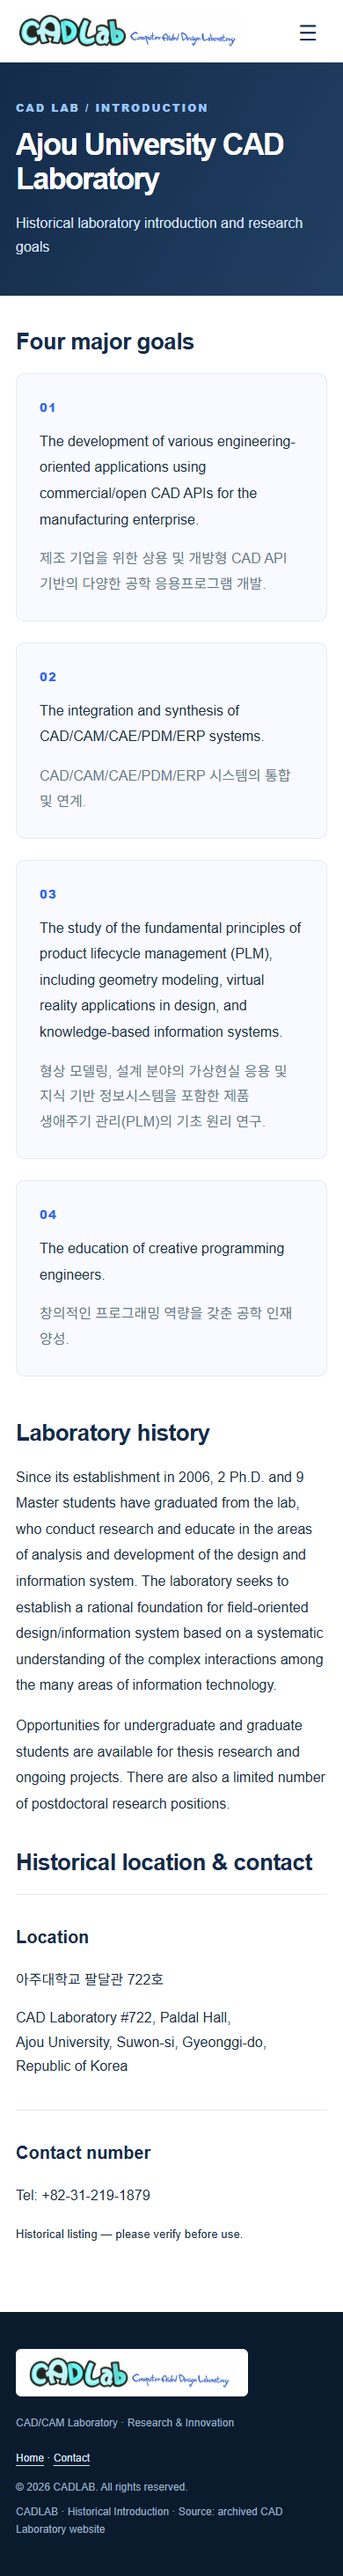
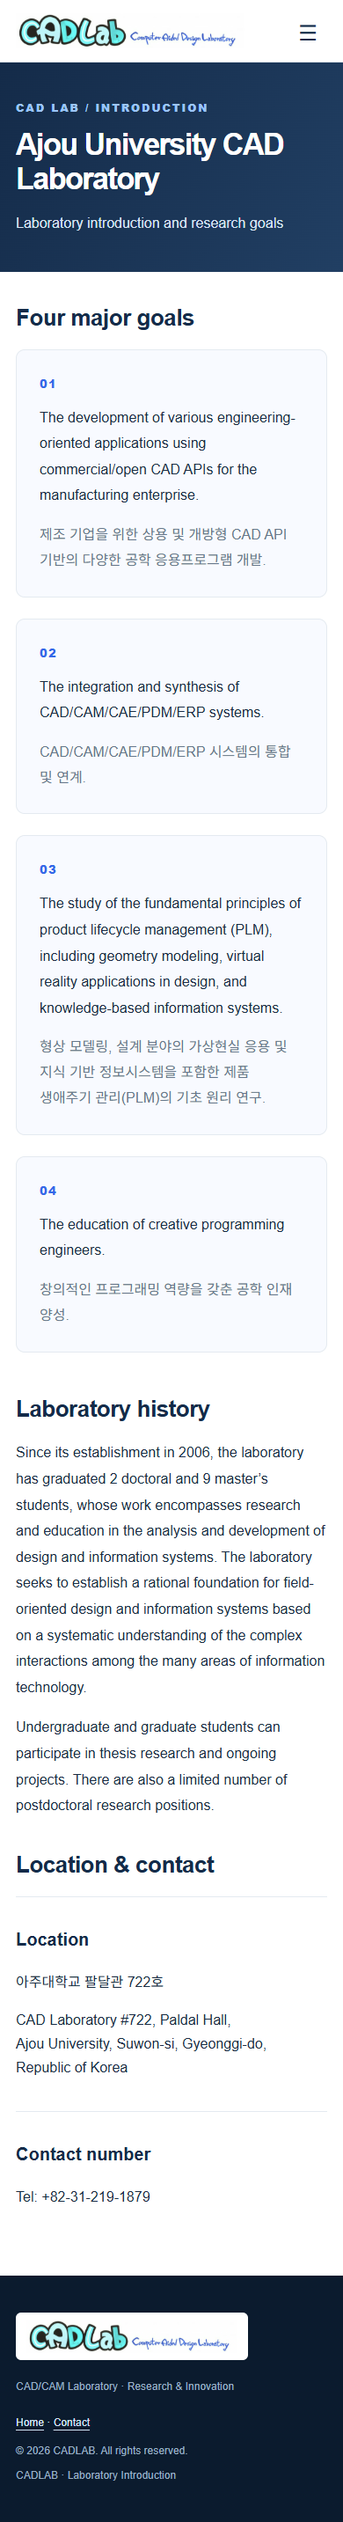
Polish public-facing copy, member badges and English grammar

diff --git a/publications/korean.html b/publications/korean.html
@@ -51,7 +51,7 @@
 
 
 
-<div class="overview"><h2>논문 목록 · Journal Publications</h2></div><section class="year-block"><h2 id="year-2024">2024</h2><ol start="1"><li class="paper"><div class="authors">오소향, 양정삼*</div><div class="paper-title">주조 공정에서 제어 로직과 온도 데이터를 활용한 CNN Autoencoder 기반 공정 이상 진단</div><div class="source">한국CDE학회 논문집, No. 3, pp. 267-279, 2024.09.</div></li><li class="paper"><div class="authors">조현곤, 정성주, 양정삼*</div><div class="paper-title">차량 서스펜션의 최적 설계에서 사양관리와 부품 공용화를 위한 CAD 템플릿 및 부품 라이브러리 구축</div><div class="source">한국CDE학회 논문집, Vol. 29, No. 1, pp. 72-83, 2024.03.</div></li></ol></section><section class="year-block"><h2 id="year-2023">2023</h2><ol start="3"><li class="paper"><div class="authors">유재홍, 양정삼</div><div class="paper-title">선박 CAD 모델과 VR 메쉬 모델 사이의 데이터 변환을 위한 B-Rep 형상 간략화</div><div class="source">한국CDE학회 논문집, 제28권, 제3호, pp. 260-272, 2023.</div></li></ol></section><section class="year-block"><h2 id="year-2022">2022</h2><ol start="4"><li class="paper"><div class="authors">나건열, 유재홍, 양정삼</div><div class="paper-title">이기종 CAD시스템에서 설계된 엘보우 파이프 모델의 통합을 위한 부분 토러스 재건</div><div class="source">한국CDE학회 논문집, 제27권, 제3호, pp. 350-360, 2022.</div></li></ol></section><section class="year-block"><h2 id="year-2021">2021</h2><ol start="5"><li class="paper"><div class="authors">나건열, 천상욱, 양정삼</div><div class="paper-title">조선 네스팅 문제의 부재 페어링을 위한 딥러닝 기반 부재 분류 방법</div><div class="source">한국CDE학회 논문집, 제26권, 제4호, pp. 514-524, 2021.</div></li><li class="paper"><div class="authors">양광빈, 양정삼</div><div class="paper-title">섬유 공장의 안전 교육훈련을 위한 ISM 기반 가상환경 시나리오 설계</div><div class="source">한국CDE학회 논문집, 제26권, 제3호, pp. 249-261, 2021.</div></li></ol></section><section class="year-block"><h2 id="year-2018">2018</h2><ol start="7"><li class="paper"><div class="authors">김철신, 이세희, 양정삼</div><div class="paper-title">X-Ray 기기의 설계변경에 따른 FDA 510(k) 인허가 영향 평가 모델 개발</div><div class="source">한국CDE학회 논문집, 제23권, 제4호, pp. 361-372, 2018.</div></li></ol></section><section class="year-block"><h2 id="year-2015">2015</h2><ol start="8"><li class="paper"><div class="authors">전혜성, 이진원, 양정삼</div><div class="paper-title">인체부위 인식을 통한 깊이 카메라 기반의 자전거 피팅 시스템 개발</div><div class="source">한국 CAD/CAM 학회 논문집, 제20권, 제4호, pp. 375-384, 2015.</div></li></ol></section><section class="year-block"><h2 id="year-2014">2014</h2><ol start="9"><li class="paper"><div class="authors">이진원, 한정호, 양정삼</div><div class="paper-title">실시간 휴먼 시뮬레이션을 위한 깊이 카메라 기반의 자세 판별 및 모션 보간</div><div class="source">한국 CAD/CAM 학회 논문집, 제19권, 제1호, pp. 68-79, 2014.</div></li></ol></section><section class="year-block"><h2 id="year-2012">2012</h2><ol start="10"><li class="paper"><div class="authors">이태목, 양정삼</div><div class="paper-title">중소기업의 정보화 도입사례 분석을 통한 효과적인 PLM 구축 방안에 대한 연구</div><div class="source">청촌논총, 제13집, pp. 65-92, 2012.</div></li><li class="paper"><div class="authors">송성열, 양정삼, 명태식</div><div class="paper-title">4D 시뮬레이션을 위한 공법 템플릿 기반의 건설 공정 자동 생성</div><div class="source">산업공학 IE Interfaces, 제25권, 제2호, pp. 216-228, 2012.</div></li></ol></section><section class="year-block"><h2 id="year-2011">2011</h2><ol start="12"><li class="paper"><div class="authors">유효선, 양정삼, 박재일</div><div class="paper-title">3D CAD 모델의 품질 측정을 위한 오류 발생 특징 별 시그마 수준 분석</div><div class="source">산업공학 IE Interfaces, 제24권, 제1호, pp. 58-70, 2011.</div></li></ol></section><section class="year-block"><h2 id="year-2010">2010</h2><ol start="13"><li class="paper"><div class="authors">오정수, 양정삼</div><div class="paper-title">제조업 분야에서 Product Data Management 기반의 BSC 성과평가 시스템 구축 사례 연구</div><div class="source">산업공학 IE Interfaces, 제23권, 제4호, pp. 275-285, 2010.</div></li><li class="paper"><div class="authors">송인호, 양정삼, 조현재, 최상수</div><div class="paper-title">연속해석 데이터의 상호운용성을 지원하는 CAE 미들웨어와 가시화 시스템의 개발</div><div class="source">한국 CAD/CAM 학회 논문집, 제15권, 제2호, pp. 85-93, 2010.</div></li></ol></section><section class="year-block"><h2 id="year-2009">2009</h2><ol start="15"><li class="paper"><div class="authors">문두환, 양정삼, 한순흥</div><div class="paper-title">사양 기반 플랜트 설계 시스템에서 생성된 원자력 플랜트 설계 데이터의 중립 모델로의 통합 변환</div><div class="source">한국 CAD/CAM 학회 논문집, 제14권, 제2호, pp. 96-104, 2009.</div></li></ol></section><section class="year-block"><h2 id="year-2008">2008</h2><ol start="16"><li class="paper"><div class="authors">송인호, 양정삼, 조현재, 최상수</div><div class="paper-title">가상현실 환경을 위한 해석데이터 변환 기술 개발</div><div class="source">한국 CAD/CAM 학회 논문집, 제13권, 제5호, pp. 334-341, 2008.</div></li><li class="paper"><div class="authors">박동석, 양정삼, 유기헌, 박범</div><div class="paper-title">주문 생산형 반도체 장비를 위한 E-BOM 복제 알고리즘의 구현</div><div class="source">한국 CAD/CAM 학회 논문집, 제13권, 제4호, pp. 273-285, 2008.</div></li><li class="paper"><div class="authors">양정삼, 한순흥, 문두환</div><div class="paper-title">서로 다른 PDM 시스템 간에 OpenPDM을 이용한 제품데이터의 교환</div><div class="source">한국 CAD/CAM 학회 논문집, 제13권, 제2호, pp. 89-97, 2008.</div></li><li class="paper"><div class="authors">허필원, 양정삼, 한순흥</div><div class="paper-title">다채널 디스플레이에서 X3D와 무선제어를 이용한 수중운동체 시뮬레이터</div><div class="source">한국 CAD/CAM 학회 논문집, 제13권, 제1호, pp. 45-57, 2008.</div></li></ol></section><section class="year-block"><h2 id="year-2006">2006</h2><ol start="20"><li class="paper"><div class="authors">양정삼, 한순흥, 천상욱</div><div class="paper-title">전문가시스템을 이용한 CAD 모델 수정 시스템</div><div class="source">대한기계학회논문집 A권, 제30권, 제3호, pp. 219-230, 2006.</div></li><li class="paper"><div class="authors">김용식, 양정삼, 한순흥</div><div class="paper-title">가상 공장 시뮬레이션을 위한 PC 클러스터 기반의 멀티채널 가시화 모듈의 설계와 구현</div><div class="source">대한기계학회논문집 A권, 제30권, 제3호, pp. 231-240, 2006.</div></li></ol></section><section class="year-block"><h2 id="year-2005">2005</h2><ol start="22"><li class="paper"><div class="authors">양정삼, 한순흥, 박상호, 장광섭</div><div class="paper-title">국내 자동차산업에서 제품데이터품질에 대한 현황 조사</div><div class="source">한국 CAD/CAM 학회 논문집, 제10권, 제4호, pp. 274-283, 2005.</div></li><li class="paper"><div class="authors">양정삼, 한순흥</div><div class="paper-title">설계이력 정보를 이용한 CAD 모델의 오류 수정</div><div class="source">한국 CAD/CAM 학회 논문집, 제10권, 제4호, pp. 262-273, 2005.</div></li><li class="paper"><div class="authors">양정삼, 한순흥, 강혜정, 김준기</div><div class="paper-title">자동차산업에서 제품데이터품질 향상을 위한 연구</div><div class="source">한국자동차공학회논문집, 제13권, 제1호, pp. 184-193, 2005.</div></li></ol></section><section class="year-block"><h2 id="year-2004">2004</h2><ol start="25"><li class="paper"><div class="authors">양정삼, 한순흥, 김병철, 박찬국</div><div class="paper-title">CAD 모델 교환을 위한 매크로 파라메트릭 정보의 XML 표현</div><div class="source">대한기계학회논문집 A권, 제27권, 제12호, pp. 2061-2071, 2004.</div></li><li class="paper"><div class="authors">박상호, 박종욱, 한순흥, 최영, 양정삼</div><div class="paper-title">IGES CAD 데이터의 교환에서 오류 진단 시스템</div><div class="source">한국정밀공학회논문집, 제20권, 제10호, pp. 218-225, 2004.</div></li></ol></section><section class="year-block"><h2 id="year-2003">2003</h2><ol start="27"><li class="paper"><div class="authors">양정삼, Michael Goltz, 한순흥</div><div class="paper-title">파라미터 네트워크 기반의 워크플로를 적용한 제품의 설계 변경</div><div class="source">대한산업공학회논문집, 제29권, 제2호, pp. 157-164, 2003.</div></li></ol></section><section class="year-block"><h2 id="year-2002">2002</h2><ol start="28"><li class="paper"><div class="authors">양정삼, 한순흥</div><div class="paper-title">STEP AP214 자동차 설계 데이터 정리 시스템</div><div class="source">한국CAD/CAM학회 논문집, 제7권, 제3호, pp. 170-176, 2002.</div></li><li class="paper"><div class="authors">양정삼, 한순흥, 최영, 박상호</div><div class="paper-title">OpenCASCADE를 이용한 CAD 모델의 오류 진단 시스템의 개발</div><div class="source">한국자동차공학회논문집, 제10권, 제3호, pp. 151-158, 2002.</div></li></ol></section><p class="note">Records reproduced from laboratory-provided historical materials, with two 2024 additions. Record contents confirmed by the laboratory on 2 November 2026. * indicates corresponding author as supplied.</p></main><!-- shared-footer:start -->
+<div class="overview"><h2>논문 목록 · Journal Publications</h2></div><section class="year-block"><h2 id="year-2024">2024</h2><ol start="1"><li class="paper"><div class="authors">오소향, 양정삼*</div><div class="paper-title">주조 공정에서 제어 로직과 온도 데이터를 활용한 CNN Autoencoder 기반 공정 이상 진단</div><div class="source">한국CDE학회 논문집, No. 3, pp. 267-279, 2024.09.</div></li><li class="paper"><div class="authors">조현곤, 정성주, 양정삼*</div><div class="paper-title">차량 서스펜션의 최적 설계에서 사양관리와 부품 공용화를 위한 CAD 템플릿 및 부품 라이브러리 구축</div><div class="source">한국CDE학회 논문집, Vol. 29, No. 1, pp. 72-83, 2024.03.</div></li></ol></section><section class="year-block"><h2 id="year-2023">2023</h2><ol start="3"><li class="paper"><div class="authors">유재홍, 양정삼</div><div class="paper-title">선박 CAD 모델과 VR 메쉬 모델 사이의 데이터 변환을 위한 B-Rep 형상 간략화</div><div class="source">한국CDE학회 논문집, 제28권, 제3호, pp. 260-272, 2023.</div></li></ol></section><section class="year-block"><h2 id="year-2022">2022</h2><ol start="4"><li class="paper"><div class="authors">나건열, 유재홍, 양정삼</div><div class="paper-title">이기종 CAD시스템에서 설계된 엘보우 파이프 모델의 통합을 위한 부분 토러스 재건</div><div class="source">한국CDE학회 논문집, 제27권, 제3호, pp. 350-360, 2022.</div></li></ol></section><section class="year-block"><h2 id="year-2021">2021</h2><ol start="5"><li class="paper"><div class="authors">나건열, 천상욱, 양정삼</div><div class="paper-title">조선 네스팅 문제의 부재 페어링을 위한 딥러닝 기반 부재 분류 방법</div><div class="source">한국CDE학회 논문집, 제26권, 제4호, pp. 514-524, 2021.</div></li><li class="paper"><div class="authors">양광빈, 양정삼</div><div class="paper-title">섬유 공장의 안전 교육훈련을 위한 ISM 기반 가상환경 시나리오 설계</div><div class="source">한국CDE학회 논문집, 제26권, 제3호, pp. 249-261, 2021.</div></li></ol></section><section class="year-block"><h2 id="year-2018">2018</h2><ol start="7"><li class="paper"><div class="authors">김철신, 이세희, 양정삼</div><div class="paper-title">X-Ray 기기의 설계변경에 따른 FDA 510(k) 인허가 영향 평가 모델 개발</div><div class="source">한국CDE학회 논문집, 제23권, 제4호, pp. 361-372, 2018.</div></li></ol></section><section class="year-block"><h2 id="year-2015">2015</h2><ol start="8"><li class="paper"><div class="authors">전혜성, 이진원, 양정삼</div><div class="paper-title">인체부위 인식을 통한 깊이 카메라 기반의 자전거 피팅 시스템 개발</div><div class="source">한국 CAD/CAM 학회 논문집, 제20권, 제4호, pp. 375-384, 2015.</div></li></ol></section><section class="year-block"><h2 id="year-2014">2014</h2><ol start="9"><li class="paper"><div class="authors">이진원, 한정호, 양정삼</div><div class="paper-title">실시간 휴먼 시뮬레이션을 위한 깊이 카메라 기반의 자세 판별 및 모션 보간</div><div class="source">한국 CAD/CAM 학회 논문집, 제19권, 제1호, pp. 68-79, 2014.</div></li></ol></section><section class="year-block"><h2 id="year-2012">2012</h2><ol start="10"><li class="paper"><div class="authors">이태목, 양정삼</div><div class="paper-title">중소기업의 정보화 도입사례 분석을 통한 효과적인 PLM 구축 방안에 대한 연구</div><div class="source">청촌논총, 제13집, pp. 65-92, 2012.</div></li><li class="paper"><div class="authors">송성열, 양정삼, 명태식</div><div class="paper-title">4D 시뮬레이션을 위한 공법 템플릿 기반의 건설 공정 자동 생성</div><div class="source">산업공학 IE Interfaces, 제25권, 제2호, pp. 216-228, 2012.</div></li></ol></section><section class="year-block"><h2 id="year-2011">2011</h2><ol start="12"><li class="paper"><div class="authors">유효선, 양정삼, 박재일</div><div class="paper-title">3D CAD 모델의 품질 측정을 위한 오류 발생 특징 별 시그마 수준 분석</div><div class="source">산업공학 IE Interfaces, 제24권, 제1호, pp. 58-70, 2011.</div></li></ol></section><section class="year-block"><h2 id="year-2010">2010</h2><ol start="13"><li class="paper"><div class="authors">오정수, 양정삼</div><div class="paper-title">제조업 분야에서 Product Data Management 기반의 BSC 성과평가 시스템 구축 사례 연구</div><div class="source">산업공학 IE Interfaces, 제23권, 제4호, pp. 275-285, 2010.</div></li><li class="paper"><div class="authors">송인호, 양정삼, 조현재, 최상수</div><div class="paper-title">연속해석 데이터의 상호운용성을 지원하는 CAE 미들웨어와 가시화 시스템의 개발</div><div class="source">한국 CAD/CAM 학회 논문집, 제15권, 제2호, pp. 85-93, 2010.</div></li></ol></section><section class="year-block"><h2 id="year-2009">2009</h2><ol start="15"><li class="paper"><div class="authors">문두환, 양정삼, 한순흥</div><div class="paper-title">사양 기반 플랜트 설계 시스템에서 생성된 원자력 플랜트 설계 데이터의 중립 모델로의 통합 변환</div><div class="source">한국 CAD/CAM 학회 논문집, 제14권, 제2호, pp. 96-104, 2009.</div></li></ol></section><section class="year-block"><h2 id="year-2008">2008</h2><ol start="16"><li class="paper"><div class="authors">송인호, 양정삼, 조현재, 최상수</div><div class="paper-title">가상현실 환경을 위한 해석데이터 변환 기술 개발</div><div class="source">한국 CAD/CAM 학회 논문집, 제13권, 제5호, pp. 334-341, 2008.</div></li><li class="paper"><div class="authors">박동석, 양정삼, 유기헌, 박범</div><div class="paper-title">주문 생산형 반도체 장비를 위한 E-BOM 복제 알고리즘의 구현</div><div class="source">한국 CAD/CAM 학회 논문집, 제13권, 제4호, pp. 273-285, 2008.</div></li><li class="paper"><div class="authors">양정삼, 한순흥, 문두환</div><div class="paper-title">서로 다른 PDM 시스템 간에 OpenPDM을 이용한 제품데이터의 교환</div><div class="source">한국 CAD/CAM 학회 논문집, 제13권, 제2호, pp. 89-97, 2008.</div></li><li class="paper"><div class="authors">허필원, 양정삼, 한순흥</div><div class="paper-title">다채널 디스플레이에서 X3D와 무선제어를 이용한 수중운동체 시뮬레이터</div><div class="source">한국 CAD/CAM 학회 논문집, 제13권, 제1호, pp. 45-57, 2008.</div></li></ol></section><section class="year-block"><h2 id="year-2006">2006</h2><ol start="20"><li class="paper"><div class="authors">양정삼, 한순흥, 천상욱</div><div class="paper-title">전문가시스템을 이용한 CAD 모델 수정 시스템</div><div class="source">대한기계학회논문집 A권, 제30권, 제3호, pp. 219-230, 2006.</div></li><li class="paper"><div class="authors">김용식, 양정삼, 한순흥</div><div class="paper-title">가상 공장 시뮬레이션을 위한 PC 클러스터 기반의 멀티채널 가시화 모듈의 설계와 구현</div><div class="source">대한기계학회논문집 A권, 제30권, 제3호, pp. 231-240, 2006.</div></li></ol></section><section class="year-block"><h2 id="year-2005">2005</h2><ol start="22"><li class="paper"><div class="authors">양정삼, 한순흥, 박상호, 장광섭</div><div class="paper-title">국내 자동차산업에서 제품데이터품질에 대한 현황 조사</div><div class="source">한국 CAD/CAM 학회 논문집, 제10권, 제4호, pp. 274-283, 2005.</div></li><li class="paper"><div class="authors">양정삼, 한순흥</div><div class="paper-title">설계이력 정보를 이용한 CAD 모델의 오류 수정</div><div class="source">한국 CAD/CAM 학회 논문집, 제10권, 제4호, pp. 262-273, 2005.</div></li><li class="paper"><div class="authors">양정삼, 한순흥, 강혜정, 김준기</div><div class="paper-title">자동차산업에서 제품데이터품질 향상을 위한 연구</div><div class="source">한국자동차공학회논문집, 제13권, 제1호, pp. 184-193, 2005.</div></li></ol></section><section class="year-block"><h2 id="year-2004">2004</h2><ol start="25"><li class="paper"><div class="authors">양정삼, 한순흥, 김병철, 박찬국</div><div class="paper-title">CAD 모델 교환을 위한 매크로 파라메트릭 정보의 XML 표현</div><div class="source">대한기계학회논문집 A권, 제27권, 제12호, pp. 2061-2071, 2004.</div></li><li class="paper"><div class="authors">박상호, 박종욱, 한순흥, 최영, 양정삼</div><div class="paper-title">IGES CAD 데이터의 교환에서 오류 진단 시스템</div><div class="source">한국정밀공학회논문집, 제20권, 제10호, pp. 218-225, 2004.</div></li></ol></section><section class="year-block"><h2 id="year-2003">2003</h2><ol start="27"><li class="paper"><div class="authors">양정삼, Michael Goltz, 한순흥</div><div class="paper-title">파라미터 네트워크 기반의 워크플로를 적용한 제품의 설계 변경</div><div class="source">대한산업공학회논문집, 제29권, 제2호, pp. 157-164, 2003.</div></li></ol></section><section class="year-block"><h2 id="year-2002">2002</h2><ol start="28"><li class="paper"><div class="authors">양정삼, 한순흥</div><div class="paper-title">STEP AP214 자동차 설계 데이터 정리 시스템</div><div class="source">한국CAD/CAM학회 논문집, 제7권, 제3호, pp. 170-176, 2002.</div></li><li class="paper"><div class="authors">양정삼, 한순흥, 최영, 박상호</div><div class="paper-title">OpenCASCADE를 이용한 CAD 모델의 오류 진단 시스템의 개발</div><div class="source">한국자동차공학회논문집, 제10권, 제3호, pp. 151-158, 2002.</div></li></ol></section><p class="note">* Corresponding author · 교신저자</p></main><!-- shared-footer:start -->
   <footer class="site-footer">
     <div class="wrap footerrow">
       <div><a class="footer-logo" href="../index.html" aria-label="CADLAB home"><img src="../assets/cadlab-logo.jpg" alt="CADLAB — Computer-Aided Design Laboratory" width="1500" height="234" loading="lazy"></a><p>CAD/CAM Laboratory · Research &amp; Innovation</p></div>

diff --git a/publications/international.html b/publications/international.html
@@ -51,10 +51,10 @@
 
 
 
-<section class="year-block" aria-labelledby="year-2026"><h2 id="year-2026">2026 <span>1 papers</span></h2><ol>
+<section class="year-block" aria-labelledby="year-2026"><h2 id="year-2026">2026 <span>1 paper</span></h2><ol>
 <li>Xinpu Gao, Namki Kim, Jeongsam Yang*, “Alarm sequence pattern analysis techniques for alarm prediction in automated manufacturing processes”, Journal of Mechanical Science and Technology, Vol. 40, No. 2, pp. 1393–1402, February 2026.</li>
 </ol></section>
-<section class="year-block" aria-labelledby="year-2024"><h2 id="year-2024">2024 <span>1 papers</span></h2><ol>
+<section class="year-block" aria-labelledby="year-2024"><h2 id="year-2024">2024 <span>1 paper</span></h2><ol>
 <li>Namki Kim, Xinpu Gao, Jeongsam Yang*, “Graph-structured data generation and analysis for anomaly detection in an automated manufacturing process”, Journal of Mechanical Science and Technology, Vol. 38, No. 10, pp. 5617–5625, October 2024.</li>
 </ol></section>
 <section class="year-block" aria-labelledby="year-2023"><h2 id="year-2023">2023 <span>2 papers</span></h2><ol>
@@ -70,17 +70,17 @@
 <li>Jinwon Lee, Sang-Uk Cheon, and Jeongsam Yang, “Connectivity-based convolutional neural network for classifying point clouds”, Pattern Recognition, Vol. 112, No. 107708, 2021.</li>
 <li>Gun-Yeol Na, Jeongsam Yang, Duhwan Mun, and Sanguk Cheon, “Reconstruction of primitive-shaped pipeelbows from a triangular mesh in ship outfitting model”, Journal of Mechanical Science and Technology, Vol. 35, No. 12, pp. 5551–5560, 2021.</li>
 </ol></section>
-<section class="year-block" aria-labelledby="year-2020"><h2 id="year-2020">2020 <span>1 papers</span></h2><ol>
+<section class="year-block" aria-labelledby="year-2020"><h2 id="year-2020">2020 <span>1 paper</span></h2><ol>
 <li>Young-Hwan Choi, Gun-Yeol Na, and Jeongsam Yang, “Fuzzy-inference-based decision-making method for the systematization of statistical process capability control”, Computers in Industry, Vol. 123, No. 103296, 2020.</li>
 </ol></section>
 <section class="year-block" aria-labelledby="year-2019"><h2 id="year-2019">2019 <span>2 papers</span></h2><ol>
 <li>Inwoong Yeo, Inho Song, Sang-Uk Cheon and Jeongsam Yang, “Development of a feature-recognition and measurement path generation system based on NURBS surfaces for 5-axis on-machine measurement”, Journal of Mechanical Science and Technology, Vol. 33, No. 7, pp. 3445–3455, 2019.</li>
 <li>Gun-Yeol Na, Jeongsam Yang and Sungwoo Cho, “Development of a 3D breast shape generation and deformation system for breast implant fabrication”, Journal of Mechanical Science and Technology, Vol. 33, No. 3, pp. 1293–1303, 2019.</li>
 </ol></section>
-<section class="year-block" aria-labelledby="year-2018"><h2 id="year-2018">2018 <span>1 papers</span></h2><ol>
+<section class="year-block" aria-labelledby="year-2018"><h2 id="year-2018">2018 <span>1 paper</span></h2><ol>
 <li>Jinwon Lee, Hyeong-Gyu Lee and Jeongsam Yang, “A rasterization method for generating exposure pattern images in optical maskless lithography”, Journal of Mechanical Science and Technology, Vol. 32, No. 5, pp. 2209–2218, 2018.</li>
 </ol></section>
-<section class="year-block" aria-labelledby="year-2017"><h2 id="year-2017">2017 <span>1 papers</span></h2><ol>
+<section class="year-block" aria-labelledby="year-2017"><h2 id="year-2017">2017 <span>1 paper</span></h2><ol>
 <li>Sungyol Song and Jeongsam Yang, “Configurable component framework supporting motion platform-based VR simulators”, Journal of Mechanical Science and Technology, Vol. 31, No. 6, pp. 2985–2996, 2017.</li>
 </ol></section>
 <section class="year-block" aria-labelledby="year-2016"><h2 id="year-2016">2016 <span>2 papers</span></h2><ol>
@@ -96,7 +96,7 @@
 <li>Jeongsu Oh, Jungho Han and Jeongsam Yang, “A fuzzy-based decision-making method for evaluating product discontinuity at the product transition point”, Computers In Industry, Vol. 65, No. 4, pp. 746–760, 2014.</li>
 <li>In-Ho Song, Kenji Shimada, and Jeongsam Yang, “Development of a sketch-based 3-D modeling system for rapid generation and evaluation of automotive seat shape using a reference model”, ASME Journal of Mechanical Design, Vol. 136, No. 5, pp. 051001-1–051001-12, 2014.</li>
 </ol></section>
-<section class="year-block" aria-labelledby="year-2013"><h2 id="year-2013">2013 <span>1 papers</span></h2><ol>
+<section class="year-block" aria-labelledby="year-2013"><h2 id="year-2013">2013 <span>1 paper</span></h2><ol>
 <li>Zhe Yang, Sang Uk Cheon, and Jeongsam Yang, “A kinematic calibration method of a 3-DOF secondary mirror of the giant magellan telescope based on least square algorithm”, Journal of Mechanical Science and Technology, Vol. 27, No. 12, pp. 3779–3786, 2013.</li>
 </ol></section>
 <section class="year-block" aria-labelledby="year-2012"><h2 id="year-2012">2012 <span>3 papers</span></h2><ol>
@@ -109,7 +109,7 @@
 <li>Sehee Lee, Jeongsam Yang and Gwangsub Kim, “Establishment of an effective product liability prevention plan by analyzing product liability cases”, Quality and Reliability Engineering International, Vol. 27, No. 4, pp. 581–593, 2011.</li>
 <li>Jonghwan Lee, Soonhung Han and Jeongsam Yang, “Construction of a computer-simulated mixed reality environment for virtual factory layout planning”, Computers In Industry, Vol. 62, No. 1, pp. 86–98, 2011.</li>
 </ol></section>
-<section class="year-block" aria-labelledby="year-2010"><h2 id="year-2010">2010 <span>1 papers</span></h2><ol>
+<section class="year-block" aria-labelledby="year-2010"><h2 id="year-2010">2010 <span>1 paper</span></h2><ol>
 <li>Duhwan Mun and Jeongsam Yang, “An integrated translation of design data of a nuclear power plant from a specification-driven plant design system to neutral model data”, Annals of Nuclear Energy, Vol. 37, No. 3, pp. 389–397, 2010.</li>
 </ol></section>
 <section class="year-block" aria-labelledby="year-2009"><h2 id="year-2009">2009 <span>4 papers</span></h2><ol>
@@ -129,7 +129,7 @@
 <li>Jeongsam Yang and Soonhung Han, “Repairing CAD model errors based on design history”, Computer Aided Design, Vol. 38, No. 6, pp. 627–640, 2006.</li>
 <li>Jeongsam Yang, Soonhung Han, Hyejeong Kang and Jongbae Kim, “Product Data Quality Assurance for e-Manufacturing in the Automotive Industry”, International Journal of Computer Integrated Manufacturing (IJCIM), Vol. 19, No. 2, pp. 136–147, 2006.</li>
 </ol></section>
-<section class="year-block" aria-labelledby="year-2005"><h2 id="year-2005">2005 <span>1 papers</span></h2><ol>
+<section class="year-block" aria-labelledby="year-2005"><h2 id="year-2005">2005 <span>1 paper</span></h2><ol>
 <li>Jeongsam Yang, Soonhung Han and Songho Park, “A method for verification of computer-aided design model errors”, Journal of Engineering Design (JED), Vol. 16, No. 3, pp. 337–352, 2005.</li>
 </ol></section>
 <section class="year-block" aria-labelledby="year-2004"><h2 id="year-2004">2004 <span>3 papers</span></h2><ol>

diff --git a/lab/introduction.html b/lab/introduction.html
@@ -2,7 +2,7 @@
 <html lang="en">
 <head>
 <meta charset="utf-8"><meta name="viewport" content="width=device-width,initial-scale=1">
-<meta name="description" content="Historical introduction and research objectives of Ajou University CAD Laboratory.">
+<meta name="description" content="Introduction and research objectives of Ajou University CAD Laboratory.">
 <title>Introduction | Ajou University CAD Laboratory</title>
 
 <link rel="stylesheet" href="../assets/styles.css">
@@ -54,7 +54,7 @@
     </div>
   </header>
   <!-- shared-header:end -->
-<section class="hero"><div class="shell"><div class="eyebrow">CAD LAB / INTRODUCTION</div><h1>Ajou University CAD Laboratory</h1><p>Historical laboratory introduction and research goals</p></div></section>
+<section class="hero"><div class="shell"><div class="eyebrow">CAD LAB / INTRODUCTION</div><h1>Ajou University CAD Laboratory</h1><p>Laboratory introduction and research goals</p></div></section>
 <main id="main" class="shell content">
 <h2 class="section-title">Four major goals</h2>
 <ol class="goals">
@@ -64,15 +64,15 @@
 <li>The education of creative programming engineers.<span class="goal-ko" lang="ko">창의적인 프로그래밍 역량을 갖춘 공학 인재 양성.</span></li>
 </ol>
 <h2 class="section-title">Laboratory history</h2>
-<p>Since its establishment in 2006, 2 Ph.D. and 9 Master students have graduated from the lab, who conduct research and educate in the areas of analysis and development of the design and information system. The laboratory seeks to establish a rational foundation for field-oriented design/information system based on a systematic understanding of the complex interactions among the many areas of information technology.</p>
-<p>Opportunities for undergraduate and graduate students are available for thesis research and ongoing projects. There are also a limited number of postdoctoral research positions.</p>
-<h2 class="section-title">Historical location & contact</h2>
-<div class="contacts"><div><h3>Location</h3><p>아주대학교 팔달관 722호</p><p>CAD Laboratory #722, Paldal Hall,<br>Ajou University, Suwon-si, Gyeonggi-do,<br>Republic of Korea</p></div><div><h3>Contact number</h3><p>Tel: +82-31-219-1879</p><p><small>Historical listing — please verify before use.</small></p></div></div>
+<p>Since its establishment in 2006, the laboratory has graduated 2 doctoral and 9 master’s students, whose work encompasses research and education in the analysis and development of design and information systems. The laboratory seeks to establish a rational foundation for field-oriented design and information systems based on a systematic understanding of the complex interactions among the many areas of information technology.</p>
+<p>Undergraduate and graduate students can participate in thesis research and ongoing projects. There are also a limited number of postdoctoral research positions.</p>
+<h2 class="section-title">Location & contact</h2>
+<div class="contacts"><div><h3>Location</h3><p>아주대학교 팔달관 722호</p><p>CAD Laboratory #722, Paldal Hall,<br>Ajou University, Suwon-si, Gyeonggi-do,<br>Republic of Korea</p></div><div><h3>Contact number</h3><p>Tel: +82-31-219-1879</p></div></div>
 </main><!-- shared-footer:start -->
   <footer class="site-footer">
     <div class="wrap footerrow">
       <div><a class="footer-logo" href="../index.html" aria-label="CADLAB home"><img src="../assets/cadlab-logo.jpg" alt="CADLAB — Computer-Aided Design Laboratory" width="1500" height="234" loading="lazy"></a><p>CAD/CAM Laboratory · Research &amp; Innovation</p></div>
-      <div><a href="../index.html">Home</a> · <a href="../lab/contact.html">Contact</a><p>© <span data-year>2026</span> CADLAB. All rights reserved.</p><small class="footer-context">CADLAB · Historical Introduction · Source: archived CAD Laboratory website</small></div>
+      <div><a href="../index.html">Home</a> · <a href="../lab/contact.html">Contact</a><p>© <span data-year>2026</span> CADLAB. All rights reserved.</p><small class="footer-context">CADLAB · Laboratory Introduction</small></div>
     </div>
   </footer>
   <!-- shared-footer:end -->

diff --git a/people/members.html b/people/members.html
@@ -50,7 +50,7 @@
 <section class="hero"><div class="shell"><div class="eyebrow">PEOPLE / MEMBERS</div><h1>Members</h1><p>Ajou University CAD Laboratory</p></div></section>
 <main id="main" class="shell">
 <nav class="section-nav" aria-label="People pages"><a href="professor.html">Professor</a><a href="members.html" aria-current="page">Members</a><a href="alumni.html">Alumni</a></nav>
-<h2>Members · 구성원</h2><div class="grid"><article class="card"><div class="person-photo-placeholder" aria-label="Photograph not supplied">PHOTO</div><h3>송인호</h3><p class="role">전임연구원</p><p class="email"><a href="mailto:songphd@gmail.com">songphd@gmail.com</a></p><span class="tag">현재 구성원 · 확인 2026.11.02</span></article><article class="card"><div class="person-photo-placeholder" aria-label="Photograph not supplied">PHOTO</div><h3>김영준</h3><p class="role">석·박 통합과정 (수료)</p><p class="email"><a href="mailto:yjk4004@ajou.ac.kr">yjk4004@ajou.ac.kr</a></p><span class="tag">현재 구성원 · 확인 2026.11.02</span></article><article class="card"><div class="person-photo-placeholder" aria-label="Photograph not supplied">PHOTO</div><h3>여인웅</h3><p class="role">박사과정 (수료)</p><p class="email"><a href="mailto:yiw@gunsol.com">yiw@gunsol.com</a></p><span class="tag">현재 구성원 · 확인 2026.11.02</span></article><article class="card"><div class="person-photo-placeholder" aria-label="Photograph not supplied">PHOTO</div><h3>박진성</h3><p class="role">석사과정</p><p class="member-dates">2026년 2월 연구실 합류<br>2026년 3월 석사과정 시작</p><span class="tag">현재 구성원 · 확인 2026.11.02</span></article><article class="card"><div class="person-photo-placeholder" aria-label="Photograph not supplied">PHOTO</div><h3>김도균</h3><p class="role">학부 4학년 · 연구실 인턴</p><span class="tag">현재 구성원 · 확인 2026.11.02</span></article></div></main><!-- shared-footer:start -->
+<h2>Members · 구성원</h2><div class="grid"><article class="card"><div class="person-photo-placeholder" aria-label="Photograph not supplied">PHOTO</div><h3>송인호</h3><p class="role">전임연구원</p><p class="email"><a href="mailto:songphd@gmail.com">songphd@gmail.com</a></p><span class="tag">현재 구성원</span></article><article class="card"><div class="person-photo-placeholder" aria-label="Photograph not supplied">PHOTO</div><h3>김영준</h3><p class="role">석·박 통합과정 (수료)</p><p class="email"><a href="mailto:yjk4004@ajou.ac.kr">yjk4004@ajou.ac.kr</a></p><span class="tag">현재 구성원</span></article><article class="card"><div class="person-photo-placeholder" aria-label="Photograph not supplied">PHOTO</div><h3>여인웅</h3><p class="role">박사과정 (수료)</p><p class="email"><a href="mailto:yiw@gunsol.com">yiw@gunsol.com</a></p><span class="tag">현재 구성원</span></article><article class="card"><div class="person-photo-placeholder" aria-label="Photograph not supplied">PHOTO</div><h3>박진성</h3><p class="role">석사과정</p><p class="member-dates">2026년 2월 연구실 합류<br>2026년 3월 석사과정 시작</p><span class="tag">현재 구성원</span></article><article class="card"><div class="person-photo-placeholder" aria-label="Photograph not supplied">PHOTO</div><h3>김도균</h3><p class="role">학부 4학년 · 연구실 인턴</p><span class="tag">현재 구성원</span></article></div></main><!-- shared-footer:start -->
   <footer class="site-footer">
     <div class="wrap footerrow">
       <div><a class="footer-logo" href="../index.html" aria-label="CADLAB home"><img src="../assets/cadlab-logo.jpg" alt="CADLAB — Computer-Aided Design Laboratory" width="1500" height="234" loading="lazy"></a><p>CAD/CAM Laboratory · Research &amp; Innovation</p></div>

diff --git a/lab/motto.html b/lab/motto.html
@@ -3,7 +3,7 @@
 <head>
 <meta charset="utf-8">
 <meta name="viewport" content="width=device-width,initial-scale=1">
-<meta name="description" content="Historical motto and logo of Ajou University CAD Laboratory.">
+<meta name="description" content="Motto and logo of Ajou University CAD Laboratory.">
 <title>Motto &amp; Logo | Ajou University CAD Laboratory</title>
 
 <link rel="stylesheet" href="../assets/styles.css">
@@ -57,15 +57,15 @@
   <!-- shared-header:end -->
 <section class="hero"><div class="shell"><div class="eyebrow">CAD LAB / MOTTO &amp; LOGO</div><h1>Motto &amp; Logo</h1><p>Preserving the laboratory's original identity and guiding words</p></div></section>
 <main id="main" class="shell content">
-<section aria-labelledby="logo-title"><h2 class="section-title" id="logo-title">Original CADLab logo</h2><p>The logo below is reproduced from the historical laboratory website.</p><div class="logo-card"><img src="assets/cadlab-original-logo.jpg" alt="Original hand-drawn CADLab logo with Computer-Aided Design Laboratory lettering"></div></section>
-<section aria-labelledby="motto-title"><h2 class="section-title" id="motto-title">Laboratory motto</h2><blockquote class="quote">Do your worst and i will do my best</blockquote><p class="attribution">— Hamlet (attribution as displayed on the original laboratory page)</p><div class="korean" lang="ko"><p>간단한 것을 복잡하게 만드는 것은 평범함이고,</p><p>복잡한 것을 간단하게 만드는 것이 창의력이다.</p></div><p class="attribution">— Charles Mingus, an artist and member of Oasis</p></section>
+<section aria-labelledby="logo-title"><h2 class="section-title" id="logo-title">Original CADLab logo</h2><p>The original CADLab logo represents the laboratory’s visual identity.</p><div class="logo-card"><img src="assets/cadlab-original-logo.jpg" alt="Original hand-drawn CADLab logo with Computer-Aided Design Laboratory lettering"></div></section>
+<section aria-labelledby="motto-title"><h2 class="section-title" id="motto-title">Laboratory motto</h2><blockquote class="quote">Do your worst and I will do my best</blockquote><p class="attribution">— Hamlet</p><div class="korean" lang="ko"><p>간단한 것을 복잡하게 만드는 것은 평범함이고,</p><p>복잡한 것을 간단하게 만드는 것이 창의력이다.</p></div><p class="attribution">— Charles Mingus, an artist and member of Oasis</p></section>
 
 </main>
 <!-- shared-footer:start -->
   <footer class="site-footer">
     <div class="wrap footerrow">
       <div><a class="footer-logo" href="../index.html" aria-label="CADLAB home"><img src="../assets/cadlab-logo.jpg" alt="CADLAB — Computer-Aided Design Laboratory" width="1500" height="234" loading="lazy"></a><p>CAD/CAM Laboratory · Research &amp; Innovation</p></div>
-      <div><a href="../index.html">Home</a> · <a href="../lab/contact.html">Contact</a><p>© <span data-year>2026</span> CADLAB. All rights reserved.</p><small class="footer-context">CADLAB · Historical Motto &amp; Logo</small></div>
+      <div><a href="../index.html">Home</a> · <a href="../lab/contact.html">Contact</a><p>© <span data-year>2026</span> CADLAB. All rights reserved.</p><small class="footer-context">CADLAB · Motto &amp; Logo</small></div>
     </div>
   </footer>
   <!-- shared-footer:end -->

diff --git a/research/ongoing.html b/research/ongoing.html
@@ -45,7 +45,7 @@
       </nav>
     </div>
   </header>
-  <!-- shared-header:end --><section class="hero"><div class="shell"><div class="eyebrow">RESEARCH / PROJECTS</div><h1>Ongoing Projects</h1><p>Ajou University CAD Laboratory · 진행중인 과제 (이전 홈페이지 기록)</p></div></section><main id="main" class="shell">
+  <!-- shared-header:end --><section class="hero"><div class="shell"><div class="eyebrow">RESEARCH / PROJECTS</div><h1>Ongoing Projects</h1><p>Ajou University CAD Laboratory · 진행 중인 연구과제</p></div></section><main id="main" class="shell">
 <nav class="section-nav" aria-label="Research project pages"><a href="ongoing.html" aria-current="page">Ongoing Projects</a><a href="completed.html">Closed Projects</a></nav>
 <h2 class="section-title">Research Projects · 연구과제</h2><div class="projects"><article id="P002" class="project"><h3>AI를 활용한 생산품 수요예측 기술 기반의 맞춤제조 지원 설계 지능화 기술개발</h3><p class="agency">중소벤처기업부 · 스마트 제조혁신 기술개발지원사업</p><p class="field-label">원 계획 연구기간 · Original planned period</p><p class="period">2022.04. – 2025.12.</p><p class="project-status">상태: 진행 중 또는 연장 · 실제 종료 연월: 미상</p></article></div></main><!-- shared-footer:start -->
   <footer class="site-footer">

diff --git a/archive/index.html b/archive/index.html
@@ -43,7 +43,7 @@
       </nav>
     </div>
   </header>
-  <!-- shared-header:end --><main id="main" class="section"><div class="wrap narrow"><p class="overline">HISTORICAL ARCHIVE</p><h1>CADLAB Archive</h1><p class="muted">Historical snapshots and recovered materials will be published here once their accuracy and redistribution permissions are verified.</p><a class="textlink" href="../index.html">← Return to Home</a></div></main><!-- shared-footer:start -->
+  <!-- shared-header:end --><main id="main" class="section"><div class="wrap narrow"><p class="overline">HISTORICAL ARCHIVE</p><h1>CADLAB Archive</h1><p class="muted">The CADLAB archive brings together the laboratory’s past activities and materials.</p><a class="textlink" href="../index.html">← Return to Home</a></div></main><!-- shared-footer:start -->
   <footer class="site-footer">
     <div class="wrap footerrow">
       <div><a class="footer-logo" href="../index.html" aria-label="CADLAB home"><img src="../assets/cadlab-logo.jpg" alt="CADLAB — Computer-Aided Design Laboratory" width="1500" height="234" loading="lazy"></a><p>CAD/CAM Laboratory · Research &amp; Innovation</p></div>

diff --git a/publications/articles.html b/publications/articles.html
@@ -68,7 +68,7 @@
   <footer class="site-footer">
     <div class="wrap footerrow">
       <div><a class="footer-logo" href="../index.html" aria-label="CADLAB home"><img src="../assets/cadlab-logo.jpg" alt="CADLAB — Computer-Aided Design Laboratory" width="1500" height="234" loading="lazy"></a><p>CAD/CAM Laboratory · Research &amp; Innovation</p></div>
-      <div><a href="../index.html">Home</a> · <a href="../lab/contact.html">Contact</a><p>© <span data-year>2026</span> CADLAB. All rights reserved.</p><small class="footer-context">CADLAB · Publications / Articles · Historical laboratory records</small></div>
+      <div><a href="../index.html">Home</a> · <a href="../lab/contact.html">Contact</a><p>© <span data-year>2026</span> CADLAB. All rights reserved.</p><small class="footer-context">CADLAB · Publications / Articles</small></div>
     </div>
   </footer>
   <!-- shared-footer:end -->

diff --git a/index.html b/index.html
@@ -120,7 +120,7 @@
   <footer class="site-footer">
     <div class="wrap footerrow">
       <div><a class="footer-logo" href="index.html" aria-label="CADLAB home"><img src="assets/cadlab-logo.jpg" alt="CADLAB — Computer-Aided Design Laboratory" width="1500" height="234" loading="lazy"></a><p>CAD/CAM Laboratory · Research &amp; Innovation</p></div>
-      <div><a href="index.html">Home</a> · <a href="lab/contact.html">Contact</a><p>© <span data-year>2026</span> CADLAB. All rights reserved.</p><small class="footer-context">Content published subject to laboratory verification and approval.</small></div>
+      <div><a href="index.html">Home</a> · <a href="lab/contact.html">Contact</a><p>© <span data-year>2026</span> CADLAB. All rights reserved.</p><small class="footer-context">Ajou University · CAD Laboratory</small></div>
     </div>
   </footer>
   <!-- shared-footer:end -->

diff --git a/tools/sync-layout.py b/tools/sync-layout.py
@@ -62,7 +62,7 @@ for path in sorted(ROOT.rglob('*.html')):
     existing = re.search(r'<small class="footer-context">(.*?)</small>',source,re.S)
     old_footer = re.search(r'<footer\b.*?</footer>',source,re.S)
     if existing: context = existing[1]
-    elif page == 'index.html': context = 'Content published subject to laboratory verification and approval.'
+    elif page == 'index.html': context = 'Ajou University · CAD Laboratory'
     elif old_footer: context = re.sub(r'<[^>]+>', '', old_footer[0]).strip()
     else: context = 'CADLAB · Historical Archive'
     if '<!-- shared-header:start -->' in source:

diff --git a/.github/review/hero/README.md b/.github/review/hero/README.md
@@ -111,3 +111,7 @@ Removed the selected introductory sentence above Four major goals. Added Korean 
 Styles only: tightened home section spacing; balanced About columns and paragraph typography; anchored the group photo below the heading instead of distributing empty vertical space; centered facilities panorama with a 1040 px cap; two-card tablet layout; improved publication summary readability. Inner pages gain readable prose widths, consistent navigation spacing, a restrained centered logo, balanced bilingual goal spacing and wider singleton project cards. All original content and image pixels are preserved.
 
 Validation: five responsive widths for existing checks, all 15 HTML pages at desktop 1440 and mobile 390 with decoded images and no horizontal overflow, plus 30 real Logo home navigations. Full-page screenshots for home, introduction, professor and motto are named layout-*.png. About desktop/mobile and motto desktop screenshots visually reviewed. Content guard and git diff --check passed. External map content excluded from local rendering.
+
+## Public-facing copy cleanup
+
+Completed the three approved audit items: removed residual internal verification/old-site language, simplified all five member badges to 현재 구성원, and corrected English singular/plural, capitalization and laboratory-history grammar. Kept corresponding-author notation and all personnel, publication and project records. The explicit text replacement map in tools/public-copy-edits.json is also used by the record guard. Five-width browser checks, all-page image/layout checks, 30 Logo navigations, record guard and git diff --check passed.
